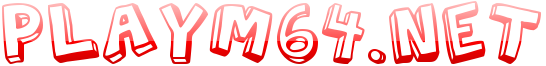
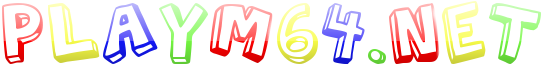
Title with more colors!

Changed region(s): [[0.0623, 0.0303, 0.4048, 0.9697], [0.467, 0.0303, 0.7161, 0.9697], [0.7784, 0.0, 0.9963, 0.9697]]

diff --git a/src/components/inputs/RomSelector.tsx b/src/components/inputs/RomSelector.tsx
@@ -161,7 +161,7 @@ const RomSelector = function(props: RomSelectorProps) {
                 <div {...getRootProps()} className="romDropZone text-center">
                   <FontAwesomeIcon icon={faUpload} size="4x" className="text-center" />
                   <input {...getInputProps()} />
-                  <p>Click or drag to load a ROMs to play</p>
+                  <p>Click or drag to load ROMs to play</p>
                 </div>
               </section>
             )}
